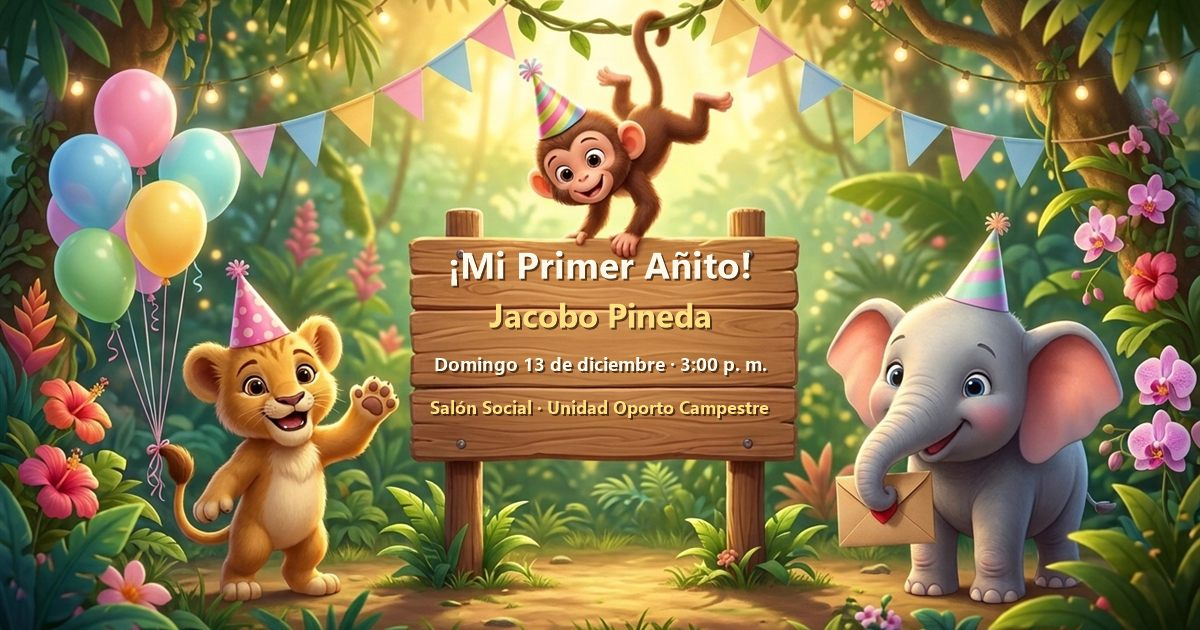
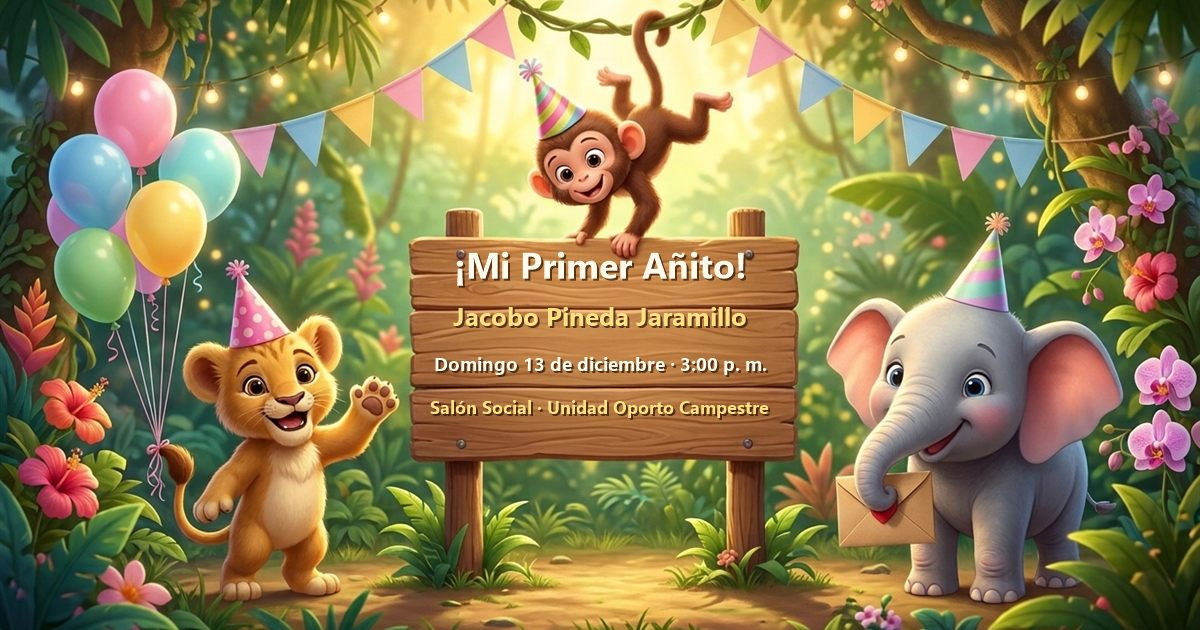
fix: use full name Jacobo Pineda Jaramillo, enrich WhatsApp RSVP, remove cake section

Changed region(s): [[0.37, 0.3921, 0.6475, 0.4524], [0.37, 0.4825, 0.6167, 0.5429]]

diff --git a/src/domain/rsvp.ts b/src/domain/rsvp.ts
@@ -67,8 +67,11 @@ function formatGuestCountLabel(count: number, singular: string, plural: string):
 export function buildWhatsAppRsvpMessage(input: RsvpFormValues, config: EventConfig): string {
   const cleanName = input.guestName.trim();
   const cleanMessage = input.message.trim();
+  const divider = '\u2500'.repeat(22);
 
   if (input.attending) {
+    const totalGuests = input.adults + input.children;
+    const totalLabel = formatGuestCountLabel(totalGuests, 'persona', 'personas');
     const adultsLabel = formatGuestCountLabel(input.adults, 'adulto', 'adultos');
     const childrenPart =
       input.children > 0
@@ -76,29 +79,52 @@ export function buildWhatsAppRsvpMessage(input: RsvpFormValues, config: EventCon
         : '';
 
     const lines = [
-      `Hola! Confirmo asistencia para ${config.eventTitle} de ${config.honoree}.`,
-      `- Invitado(s): ${cleanName}`,
-      `- Asistencia: Sí asistiremos (${adultsLabel}${childrenPart})`,
-      `- Fecha y hora: ${config.dateDisplay} a las ${config.timeDisplay}`,
-      `- Lugar: ${config.venueSpace}, ${config.venueName}`,
+      `*CONFIRMACIÓN DE ASISTENCIA*`,
+      `*${config.eventTitle} — ${config.honoree}*`,
+      divider,
+      '',
+      `*Invitado / Familia:* ${cleanName}`,
+      `*Estado:* Asistencia confirmada`,
+      `*Total de asistentes:* ${totalLabel} (${adultsLabel}${childrenPart})`,
+      '',
+      `*Detalles de la celebración:*`,
+      `Fecha: ${config.dateDisplay}`,
+      `Hora: ${config.timeDisplay}`,
+      `Lugar: ${config.venueSpace} · ${config.venueName}`,
+      `Dirección: ${config.address} (${config.neighborhood})`,
     ];
 
     if (cleanMessage) {
-      lines.push(`- Mensaje para Jacobo: "${cleanMessage}"`);
+      lines.push('', `*Mensaje para Jacobo:*`, `_"${cleanMessage}"_`);
     }
+
+    lines.push(
+      '',
+      divider,
+      `_Confirmado desde la invitación digital de ${config.honoree}._`,
+    );
 
     return lines.join('\n');
   }
 
   const lines = [
-    `Hola! Respondo a la invitación de ${config.eventTitle} de ${config.honoree}.`,
-    `- Invitado(s): ${cleanName}`,
-    `- Asistencia: No podremos asistir en esta ocasión`,
+    `*RESPUESTA A LA INVITACIÓN*`,
+    `*${config.eventTitle} — ${config.honoree}*`,
+    divider,
+    '',
+    `*Invitado / Familia:* ${cleanName}`,
+    `*Estado:* No podremos asistir en esta ocasión`,
   ];
 
   if (cleanMessage) {
-    lines.push(`- Mensaje para Jacobo: "${cleanMessage}"`);
+    lines.push('', `*Mensaje para Jacobo:*`, `_"${cleanMessage}"_`);
   }
+
+  lines.push(
+    '',
+    divider,
+    `_Enviado desde la invitación digital de ${config.honoree}._`,
+  );
 
   return lines.join('\n');
 }

diff --git a/src/domain/rsvp.test.ts b/src/domain/rsvp.test.ts
@@ -70,7 +70,7 @@ describe('validateRsvpInput', () => {
 });
 
 describe('WhatsApp RSVP message and URL builders', () => {
-  it('builds a structured Spanish message and wa.me URL for attending guests', () => {
+  it('builds a richly formatted Spanish WhatsApp message and wa.me URL for attending guests', () => {
     const values = {
       guestName: 'Familia Martínez',
       attending: true,
@@ -81,11 +81,14 @@ describe('WhatsApp RSVP message and URL builders', () => {
 
     const text = buildWhatsAppRsvpMessage(values, EVENT_CONFIG);
     expect(text).not.toMatch(/\p{Extended_Pictographic}/u);
-    expect(text).toContain('Familia Martínez');
-    expect(text).toContain('2 adultos');
-    expect(text).toContain('1 niño');
-    expect(text).toContain('¡Feliz primer añito Jacobo!');
+    expect(text).toContain('*CONFIRMACIÓN DE ASISTENCIA*');
+    expect(text).toContain('Jacobo Pineda Jaramillo');
+    expect(text).toContain('*Invitado / Familia:* Familia Martínez');
+    expect(text).toContain('*Total de asistentes:* 3 personas (2 adultos y 1 niño)');
     expect(text).toContain('3:00 p. m.');
+    expect(text).toContain('Sector Machado');
+    expect(text).toContain('_"¡Feliz primer añito Jacobo!"_');
+    expect(text.toLowerCase()).not.toContain('regalo');
 
     const url = buildWhatsAppRsvpUrl(values, EVENT_CONFIG);
     expect(url.startsWith('https://wa.me/573005944356?text=')).toBe(true);
@@ -93,7 +96,7 @@ describe('WhatsApp RSVP message and URL builders', () => {
     expect(decoded).toBe(text);
   });
 
-  it('builds a warm declined RSVP message without guest counts or emojis', () => {
+  it('builds a richly formatted declined RSVP message without guest counts or emojis', () => {
     const text = buildWhatsAppRsvpMessage(
       {
         guestName: 'Laura Ríos',
@@ -105,9 +108,12 @@ describe('WhatsApp RSVP message and URL builders', () => {
       EVENT_CONFIG,
     );
     expect(text).not.toMatch(/\p{Extended_Pictographic}/u);
+    expect(text).toContain('*RESPUESTA A LA INVITACIÓN*');
+    expect(text).toContain('Jacobo Pineda Jaramillo');
     expect(text).toContain('Laura Ríos');
-    expect(text).toContain('No podremos asistir');
+    expect(text).toContain('No podremos asistir en esta ocasión');
     expect(text).not.toContain('adulto');
+    expect(text).not.toContain('Total de asistentes');
   });
 });
 

diff --git a/src/App.test.tsx b/src/App.test.tsx
@@ -16,11 +16,12 @@ describe('App storybook invitation flow', () => {
     cleanup();
   });
 
-  it('displays 3:00 p. m., removes safari friends and on-page share card, keeps cake game, and has zero emojis/gifts', async () => {
+  it('displays Jacobo Pineda Jaramillo, 3:00 p. m., removes cake/friends/card sections, and has zero emojis/gifts', async () => {
     const user = userEvent.setup();
     const { container } = render(<App />);
 
     expect(screen.getByRole('heading', { name: /¡mi primer añito!/i })).toBeInTheDocument();
+    expect(screen.getByText(/jacobo pineda jaramillo/i)).toBeInTheDocument();
     expect(screen.getByText(/3:00 p\. m\./i)).toBeInTheDocument();
     expect(screen.queryByText(/4:00 p\. m\./i)).not.toBeInTheDocument();
     expect(container.textContent ?? '').not.toMatch(/\p{Extended_Pictographic}/u);
@@ -33,17 +34,14 @@ describe('App storybook invitation flow', () => {
       await screen.findByRole('heading', { name: /¡confirma tu asistencia aquí abajo!/i }),
     ).toBeInTheDocument();
 
-    // Confirm 3:00 p. m. and absence of removed sections
+    // Confirm full name, 3:00 p. m., and absence of all removed sections
+    expect(screen.getAllByText(/jacobo pineda jaramillo/i).length).toBeGreaterThanOrEqual(1);
     expect(screen.getByText(/3:00 p\. m\./i)).toBeInTheDocument();
     expect(screen.queryByText(/4:00 p\. m\./i)).not.toBeInTheDocument();
     expect(screen.queryByText(/toca a los amigos de jacobo/i)).not.toBeInTheDocument();
     expect(screen.queryByText(/comparte esta tarjeta por whatsapp/i)).not.toBeInTheDocument();
-
-    // Keep interactive Birthday Cake candle mini-game
-    await user.click(screen.getByRole('button', { name: /^soplar la velita$/i }));
-    expect(screen.getByText(/¡deseo pedido!/i)).toBeInTheDocument();
-    await user.click(screen.getByRole('button', { name: /volver a encender/i }));
-    expect(screen.getByRole('button', { name: /^soplar la velita$/i })).toBeInTheDocument();
+    expect(screen.queryByText(/pide un deseo por jacobo/i)).not.toBeInTheDocument();
+    expect(screen.queryByRole('button', { name: /soplar la velita/i })).not.toBeInTheDocument();
 
     // Strictly verify ZERO emojis and ZERO gift/registry words across full page
     const fullText = container.textContent ?? '';

diff --git a/index.html b/index.html
@@ -3,14 +3,14 @@
   <head>
     <meta charset="UTF-8" />
     <meta name="viewport" content="width=device-width, initial-scale=1.0" />
-    <title>¡Mi Primer Añito! — Jacobo Pineda</title>
+    <title>¡Mi Primer Añito! — Jacobo Pineda Jaramillo</title>
     <meta
       name="description"
-      content="¡Te invito a celebrar el primer añito de Jacobo Pineda! Domingo, 13 de diciembre de 2026 a las 3:00 p. m. en el Salón Social de la Unidad Oporto Campestre, Copacabana, Antioquia."
+      content="¡Te invito a celebrar el primer añito de Jacobo Pineda Jaramillo! Domingo, 13 de diciembre de 2026 a las 3:00 p. m. en el Salón Social de la Unidad Oporto Campestre, Copacabana, Antioquia."
     />
     <meta property="og:type" content="website" />
     <meta property="og:locale" content="es_CO" />
-    <meta property="og:title" content="¡Mi Primer Añito! — Jacobo Pineda" />
+    <meta property="og:title" content="¡Mi Primer Añito! — Jacobo Pineda Jaramillo" />
     <meta
       property="og:description"
       content="Domingo 13 de diciembre de 2026 · 3:00 p. m. · Salón Social, Unidad Oporto Campestre (Copacabana, Antioquia). ¡Abre la invitación y confirma tu asistencia!"
@@ -19,9 +19,9 @@
     <meta property="og:image:type" content="image/jpeg" />
     <meta property="og:image:width" content="1200" />
     <meta property="og:image:height" content="630" />
-    <meta property="og:image:alt" content="Invitación interactiva al primer añito de Jacobo Pineda" />
+    <meta property="og:image:alt" content="Invitación interactiva al primer añito de Jacobo Pineda Jaramillo" />
     <meta name="twitter:card" content="summary_large_image" />
-    <meta name="twitter:title" content="¡Mi Primer Añito! — Jacobo Pineda" />
+    <meta name="twitter:title" content="¡Mi Primer Añito! — Jacobo Pineda Jaramillo" />
     <meta
       name="twitter:description"
       content="¡Te invito a celebrarlo! Domingo 13 de diciembre de 2026 · 3:00 p. m. · Salón Social, Unidad Oporto Campestre, Copacabana."

diff --git a/src/styles/theme.css b/src/styles/theme.css
@@ -145,43 +145,6 @@ body {
   }
 }
 
-@keyframes playfulHop {
-  0% {
-    transform: translateY(0) scale(1);
-  }
-  35% {
-    transform: translateY(-14px) rotate(-4deg) scale(1.06);
-  }
-  65% {
-    transform: translateY(2px) rotate(3deg) scale(0.98);
-  }
-  100% {
-    transform: translateY(0) rotate(0deg) scale(1);
-  }
-}
-
-@keyframes candleFlame {
-  0%, 100% {
-    transform: scale(1) rotate(-2deg);
-    opacity: 0.95;
-  }
-  50% {
-    transform: scale(1.08, 1.15) rotate(2deg);
-    opacity: 1;
-  }
-}
-
-@keyframes smokeWisp {
-  0% {
-    opacity: 0.85;
-    transform: translateY(0) scale(0.75);
-  }
-  100% {
-    opacity: 0;
-    transform: translateY(-28px) scale(1.35);
-  }
-}
-
 .animate-sway {
   animation: gentleSway 5.4s ease-in-out infinite;
 }
@@ -194,19 +157,6 @@ body {
   animation: balloonFloat 4.8s ease-in-out infinite;
 }
 
-.animate-hop {
-  animation: playfulHop 0.55s cubic-bezier(0.22, 1, 0.36, 1);
-}
-
-.animate-flame {
-  transform-origin: center bottom;
-  animation: candleFlame 0.95s ease-in-out infinite;
-}
-
-.animate-smoke {
-  animation: smokeWisp 1.3s ease-out forwards;
-}
-
 @media (prefers-reduced-motion: reduce) {
   html {
     scroll-behavior: auto;
@@ -215,9 +165,6 @@ body {
   .animate-sway,
   .animate-cloud,
   .animate-balloon,
-  .animate-hop,
-  .animate-flame,
-  .animate-smoke,
   .envelope-flap,
   .envelope-letter-rise {
     animation: none !important;

diff --git a/src/domain/calendar.test.ts b/src/domain/calendar.test.ts
@@ -9,7 +9,7 @@ describe('calendar helpers', () => {
 
     expect(parsed.origin + parsed.pathname).toBe('https://calendar.google.com/calendar/render');
     expect(parsed.searchParams.get('action')).toBe('TEMPLATE');
-    expect(parsed.searchParams.get('text')).toContain('Jacobo Pineda');
+    expect(parsed.searchParams.get('text')).toContain('Jacobo Pineda Jaramillo');
     // 2026-12-13T15:00-05:00 -> 20261213T200000Z; 19:00-05:00 -> 20261214T000000Z
     expect(parsed.searchParams.get('dates')).toBe('20261213T200000Z/20261214T000000Z');
     expect(parsed.searchParams.get('ctz')).toBe('America/Bogota');
@@ -35,7 +35,7 @@ describe('calendar helpers', () => {
     expect(ics).toContain('DTSTART:20261213T200000Z\r\n');
     expect(ics).toContain('DTEND:20261214T000000Z\r\n');
     expect(ics).toContain('DTSTAMP:20261123T010000Z\r\n');
-    expect(ics).toContain('SUMMARY:¡Mi Primer Añito! — Jacobo Pineda\r\n');
+    expect(ics).toContain('SUMMARY:¡Mi Primer Añito! — Jacobo Pineda Jaramillo\r\n');
     expect(ics).toContain('LOCATION:Salón Social — Unidad Oporto Campestre\\, Cra. 78 #40-25\\, Copacabana\\, Antioquia\r\n');
     expect(ics).toContain('END:VEVENT\r\n');
     expect(ics.endsWith('END:VCALENDAR\r\n')).toBe(true);

diff --git a/src/App.tsx b/src/App.tsx
@@ -1,5 +1,4 @@
 import { useState } from 'react';
-import { BirthdayCakeGame } from './components/BirthdayCakeGame';
 import { CountdownSection } from './components/CountdownSection';
 import { EnvelopeIntro } from './components/EnvelopeIntro';
 import { FloatingToolbar } from './components/FloatingToolbar';
@@ -50,11 +49,6 @@ export function App() {
           replaySignal={replaySignal}
           onToggleMute={() => setIsMuted((prev) => !prev)}
         />
-
-        {/* Soft rolling meadow band for birthday candle interactive moment */}
-        <div className="relative bg-gradient-to-b from-transparent via-[#EAF2E2]/55 to-transparent py-2">
-          <BirthdayCakeGame isMuted={isMuted} />
-        </div>
 
         <CountdownSection config={EVENT_CONFIG} />
         <LocationSection config={EVENT_CONFIG} />

diff --git a/src/components/RsvpSection.test.tsx b/src/components/RsvpSection.test.tsx
@@ -66,9 +66,9 @@ describe('RsvpSection', () => {
     const href = waLink.getAttribute('href') ?? '';
     expect(href.startsWith('https://wa.me/573005944356?text=')).toBe(true);
     const decoded = decodeURIComponent(href.split('?text=')[1]);
+    expect(decoded).toContain('Jacobo Pineda Jaramillo');
     expect(decoded).toContain('Familia Martínez');
-    expect(decoded).toContain('2 adultos');
-    expect(decoded).toContain('1 niño');
+    expect(decoded).toContain('3 personas (2 adultos y 1 niño)');
     expect(decoded).toContain('¡Feliz primer añito Jacobo!');
     expect(decoded).not.toMatch(/\p{Extended_Pictographic}/u);
 

diff --git a/src/utils/soundEffects.ts b/src/utils/soundEffects.ts
@@ -74,18 +74,3 @@ export function playBalloonPopSound(isMuted: boolean): void {
     0.09,
   );
 }
-
-export function playCandleCelebrationChime(isMuted: boolean): void {
-  if (isMuted) {
-    return;
-  }
-  // Gentle 6-note celebratory music-box arpeggio
-  playToneSequence([
-    { freq: 523.25, duration: 0.15, delay: 0 },
-    { freq: 523.25, duration: 0.15, delay: 0.16 },
-    { freq: 587.33, duration: 0.24, delay: 0.32 },
-    { freq: 523.25, duration: 0.24, delay: 0.56 },
-    { freq: 698.46, duration: 0.24, delay: 0.8 },
-    { freq: 659.25, duration: 0.42, delay: 1.04 },
-  ]);
-}

diff --git a/src/config/event.ts b/src/config/event.ts
@@ -28,7 +28,7 @@ export interface EventConfig {
  * Intentionally excludes any gift or rain-of-envelopes metadata per user instruction.
  */
 export const EVENT_CONFIG: EventConfig = {
-  honoree: 'Jacobo Pineda',
+  honoree: 'Jacobo Pineda Jaramillo',
   eventTitle: '¡Mi Primer Añito!',
   subtitle: '¡Te invito a celebrarlo!',
   introHeadline: 'Tienes una invitación muy especial de Jacobo',

diff --git a/src/components/CountdownSection.tsx b/src/components/CountdownSection.tsx
@@ -39,7 +39,7 @@ export function CountdownSection({ config }: CountdownSectionProps) {
     const url = URL.createObjectURL(blob);
     const link = document.createElement('a');
     link.href = url;
-    link.download = 'primer-anito-jacobo-pineda.ics';
+    link.download = 'primer-anito-jacobo-pineda-jaramillo.ics';
     document.body.appendChild(link);
     link.click();
     link.remove();

diff --git a/odd/tasks/jacobo-first-birthday-invitation.md b/odd/tasks/jacobo-first-birthday-invitation.md
@@ -4,14 +4,14 @@ Objective: Build a faithful, mobile-first Baby Jungle Safari interactive web inv
 
 ## Specs
 
-- **S1**: Faithful Baby Jungle Safari interactive web invitation derived from uploaded video (`"¡Mi Primer Añito!"`, `"Jacobo Pineda"`, `"¡Te invito a celebrarlo!"`, `"13 de Diciembre, 2026"`, `"Unidad Oporto Campestre"`, `"Cra. 78 #40-25, Copacabana, Antioquia"`, `"¡Confirma tu asistencia aquí abajo!"`) with embedded original MP4 video (`public/media/invitacion-jacobo.mp4`) and interactive heart-sealed envelope entrance unlocking audio.
+- **S1**: Faithful Baby Jungle Safari interactive web invitation derived from uploaded video (`"¡Mi Primer Añito!"`, `"Jacobo Pineda Jaramillo"`, `"¡Te invito a celebrarlo!"`, `"13 de Diciembre, 2026"`, `"Unidad Oporto Campestre"`, `"Cra. 78 #40-25, Copacabana, Antioquia"`, `"¡Confirma tu asistencia aquí abajo!"`) with embedded original MP4 video (`public/media/invitacion-jacobo.mp4`) and interactive heart-sealed envelope entrance unlocking audio.
 - **S2**: Confirmed event details: `3:00 p. m.` (`America/Bogota`, UTC-5; updated from 4:00 p. m. per L5), `"Salón Social"` at `"Unidad Oporto Campestre"`, WhatsApp RSVP to `3005944356` (`573005944356`).
 - **S3**: Explicit exclusion: `"no pongas nada en los regalos"` — zero gift/rain-of-envelopes/registry content anywhere.
-- **S4**: Pure domain utilities built test-first (RED -> GREEN): Bogota-anchored live countdown (`upcoming`/`today`/`past`), RFC 5545 `.ics` download + Google Calendar link, RSVP validation + WhatsApp deep-link builder + safe `localStorage` persistence.
+- **S4**: Pure domain utilities built test-first (RED -> GREEN): Bogota-anchored live countdown (`upcoming`/`today`/`past`), RFC 5545 `.ics` download + Google Calendar link, RSVP validation + rich zero-emoji WhatsApp deep-link builder + safe `localStorage` persistence.
 - **S5**: Interactive venue section (embedded map, Google Maps, Waze, copy address toast) and joyful subtle safari interactions (poppable floating pastel balloons, confetti bursts, `prefers-reduced-motion` support, floating audio/RSVP toolbar).
 - **S6**: Verified production build, Vitest suite, strict TypeScript check, and mobile (`390x844`) + desktop (`1440x900`) live browser verification with walkthrough artifact.
-- **S7**: Handcrafted Colombian children's storybook aesthetic (zero AI SaaS badges, zero uppercase pill labels, warm watercolor paper `#FDF6E7`, `Baloo 2` + `Patrick Hand` + `Quicksand`), **ZERO emojis anywhere** (`0` `/\p{Extended_Pictographic}/u`), zero gift references, and childlike interactivity (3D folded kraft envelope + wax seal, blow-out birthday candle mini-game, wooden toy-block countdown, hand-drawn glossy SVG balloons; Safari Friends playground removed per L5).
-- **S8**: Direct 1-tap WhatsApp RSVP opening `https://wa.me/573005944356?text=...` on submit + standalone downloadable WhatsApp invitation card `tarjeta-whatsapp-jacobo.jpg` (`1080x1350` at `3:00 p. m.`, kept separate from the web page per L5) and compressed `og-cover.jpg` (`1200x630`, `< 180 KB` at `3:00 p. m.`).
+- **S7**: Handcrafted Colombian children's storybook aesthetic (zero AI SaaS badges, zero uppercase pill labels, warm watercolor paper `#FDF6E7`, `Baloo 2` + `Patrick Hand` + `Quicksand`), **ZERO emojis anywhere** (`0` `/\p{Extended_Pictographic}/u`), zero gift references, and childlike interactivity (3D folded kraft envelope + wax seal, wooden toy-block countdown, hand-drawn glossy SVG balloons; Safari Friends playground removed per L5 and Birthday Cake candle game removed per L6).
+- **S8**: Direct 1-tap richly formatted WhatsApp RSVP opening `https://wa.me/573005944356?text=...` on submit + standalone downloadable WhatsApp invitation card `tarjeta-whatsapp-jacobo.jpg` (`1080x1350`, `Jacobo Pineda Jaramillo`, `3:00 p. m.`, copied to Windows Desktop) and compressed `og-cover.jpg` (`1200x630`, `< 180 KB`, `Jacobo Pineda Jaramillo`, `3:00 p. m.`). On-page share card removed per L5.
 - **S9**: `vercel.json` security/CSP config modeled on `Guaufresh-salchiencuentro`, merged `main` pushed to public GitHub repo `julian8811/invitacion-jacobo` via authenticated `gh` CLI (never committing/storing pasted PAT), and Vercel sign-in card ready for `montoya8811-1146s-projects`.
 
 ## Tasks
@@ -25,7 +25,8 @@ Objective: Build a faithful, mobile-first Baby Jungle Safari interactive web inv
 - [x] **T7** (`S7`, `S8`) | Route: `inline` | Redesign storybook UI, 3D envelope, SafariFriendsPlayground, BirthdayCakeGame, zero-emoji RSVP direct `window.open`, WhatsAppCardSection & tests | Commit: `ea7313e` (22/22 Vitest GREEN, `tsc --noEmit` exit 0, `vite build` exit 0)
 - [x] **T8** (`S6`, `S7`, `S8`) | Route: `inline` | Add `vercel.json`, generate standalone `tarjeta-whatsapp-jacobo.jpg`, run live mobile & desktop browser audit, update `walkthrough.md` | Commit: `09a5370` | Verified: 22/22 Vitest, `tsc --noEmit` 0, `vite build` 2.46s, browser audit 390x844 (0 overflow, 31.16px pill clearance, 0 emojis, 0 console errors) & 1440x900
 - [x] **T9** (`S9`) | Route: `inline` | Merge `feat/jacobo-interactive-invitation` into `main`, create & push `julian8811/invitacion-jacobo` via `gh`, refresh Engram mirror & hand off Vercel sign-in | Commit: `69ad036` | Risk: none
-- [x] **T10** (`S2`, `S7`, `S8`) | Route: `inline` | Update time to `3:00 p. m.` across config, metadata, JPEGs & tests; remove SafariFriendsPlayground & on-page WhatsAppCardSection + unused `qrcode` dependency; commit & push `main` | Commit: pending | Verified: 20/20 Vitest GREEN, `tsc --noEmit` 0, `vite build` clean | Risk: none
+- [x] **T10** (`S2`, `S7`, `S8`) | Route: `inline` | Update time to `3:00 p. m.` across config, metadata, JPEGs & tests; remove SafariFriendsPlayground & on-page WhatsAppCardSection + unused `qrcode` dependency; commit & push `main` | Commit: `200f712` | Verified: 20/20 Vitest GREEN, `tsc --noEmit` 0, `vite build` 2.70s | Risk: none
+- [x] **T11** (`S1`, `S4`, `S7`, `S8`) | Route: `inline` | Update honoree to `Jacobo Pineda Jaramillo`, enrich zero-emoji WhatsApp RSVP message, remove `BirthdayCakeGame`, regenerate JPEGs & copy `tarjeta-whatsapp-jacobo.jpg` to Windows Desktop | Commit: pending | Verified: 20/20 Vitest GREEN, `tsc --noEmit` 0, `vite build` 2.43s | Risk: none
 
 ## Log
 
@@ -34,3 +35,4 @@ Objective: Build a faithful, mobile-first Baby Jungle Safari interactive web inv
 - **L3** (2026-11-22): Completed T1–T5 on `feat/jacobo-interactive-invitation`. Extracted shared `src/utils/clipboard.ts` and `src/utils/confetti.ts`; fixed mobile viewport overflow guards (`html { overflow-x: hidden }`, `min-w-0`), removed `aria-hidden` around interactive balloons, and adjusted signboard spacing (`c5dd0dd`). Re-verified 20/20 Vitest tests, strict TypeScript, Vite production bundle, and mobile (`390x844`) + desktop (`1440x900`) browser audit. Note: Engram MCP server (`gentle-ai-engram_engram`) returned `exit status 0xffffffff` during execution, so the Engram mirror (`odd/jacobo-first-birthday-invitation/tasks`) remains pending sync when Engram restarts.
 - **L4** (2026-11-22): `ahora requerimos ponerlo onliney que las ocnfirmaciones se manden al whatsapp que te dí. Además de hace una tarjeta que se mande por whatsapp y que habra esta pagina https://github.com/julian8811?tab=repositories [REDACTED_GITHUB_TOKEN] pon la invitación más interactiva y más infantil, borra los emojis y que no se vea tan hecha de AI. Si quieres usa estos repos para contruirla [REDACTED_GITHUB_TOKEN] vercel https://vercel.com/montoya8811-1146s-projects`
 - **L5** (2026-11-22): `corrige la hora de la invitación a las 3  de la tarde,  borra toda esta sesión Toca a los amigos de Jacobo ¡Saludaste a los 3 amigos! Todos te esperan en la selva. Leoncito con gorro de fiesta saludando Leoncito Saludado Elefantito tierno con sobre de corazón Elefantito Saludado Monito jugando en una liana con flores Monito Saludado Leoncito: "¡Te espero con muchos globos y abrazos!" y borra la tarjeta de la pagina, la tarjeta es aparte para mandar por whatsapp`
+- **L6** (2026-11-22): `la información llega a whatsapp muy simple mejora esto además el div de la torta para soplar la vela se debe borrar y la tarjeta ponla en el escritorio de windows, y corrige en todo a Jacobo Pineda Jaramillo`
